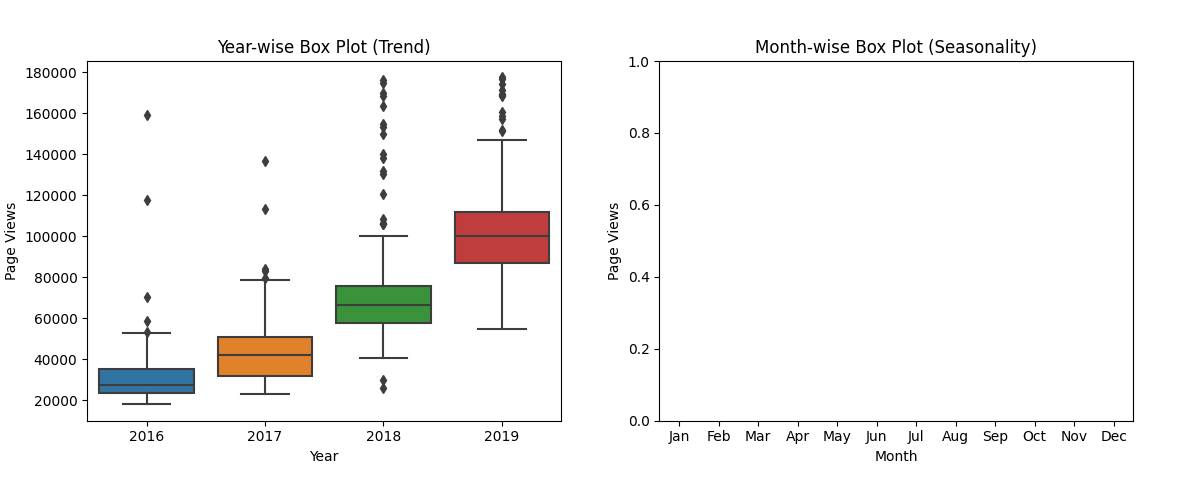
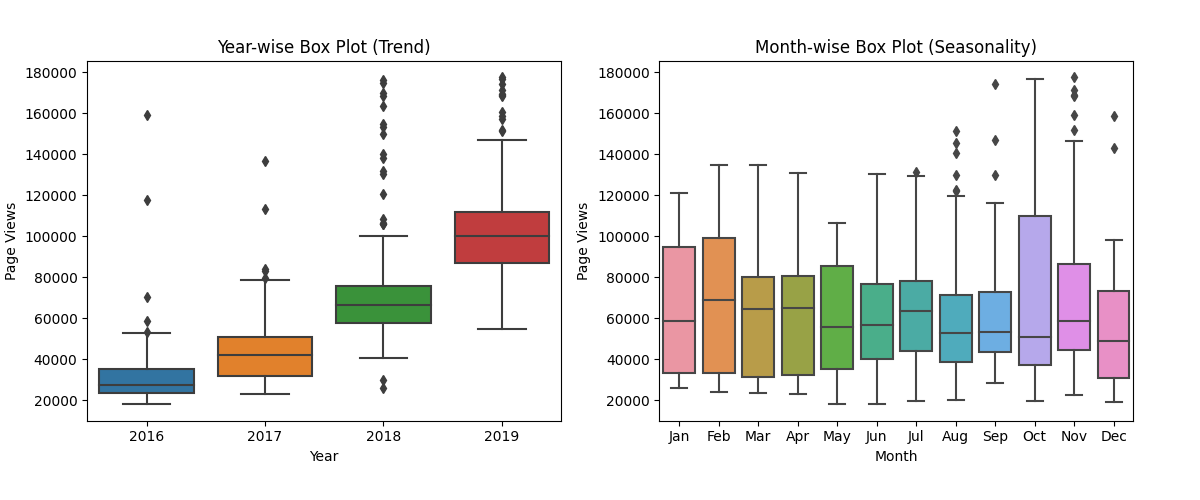
drawing box plot 2 completed

diff --git a/boilerplate-page-view-time-series-visualizer/time_series_visualizer.py b/boilerplate-page-view-time-series-visualizer/time_series_visualizer.py
@@ -6,14 +6,16 @@ import seaborn as sns
 from pandas.plotting import register_matplotlib_converters
 register_matplotlib_converters()
 
-# Import data (Make sure to parse dates. Consider setting index column to 'date'.)
-df = pd.read_csv('fcc-forum-pageviews.csv', index_col='date')
 
+# Import data (Make sure to parse dates. Consider setting index column to 'date'.)
+df = pd.read_csv('fcc-forum-pageviews.csv')
+df = df.set_index('date')
 # Clean data
 df = df[
-        (df['value'] >= (df['value'].quantile(0.025))) & 
-        (df['value'] <= (df['value'].quantile(0.975)))   
-       ]
+    (df['value'] >= (df['value'].quantile(0.025))) & 
+    (df['value'] <= (df['value'].quantile(0.975)))   
+    ]
+df.index = pd.to_datetime(df.index)
 
 def draw_line_plot():
     # Draw line plot
@@ -58,23 +60,20 @@ def draw_bar_plot():
 
 
 def draw_box_plot():
-    # Prepare data for box plots (this part is done!)
+
     df_box = df.copy()
     df_box.reset_index(inplace=True)
-    df_box['date'] = pd.to_datetime(df_box['date'])
-    df_box['year'] = [d.strftime('%Y') for d in df_box.date]
-    df_box['month'] = [d.strftime('%m') for d in df_box.date]
-    # print(df_box['month'])
+    df_box['year'] = [d.year for d in df_box.date]
+    df_box['month'] = [d.strftime('%b') for d in df_box.date]
 
     # Draw box plots (using Seaborn)
     clist_new = ["Jan","Feb", "Mar", "Apr", "May","Jun","Jul","Aug", "Sep","Oct","Nov","Dec"]
-    
-     # Draw box plot
     fig,ax = plt.subplots(nrows=1,ncols=2)
     fig.set_size_inches(12, 5)
     fig.tight_layout(pad=4)
+    
     sns.boxplot(x = df_box['year'], y = df_box['value'], ax = ax[0]).set(xlabel='Year', ylabel='Page Views')
-    sns.boxplot(x = df_box['month'], y = df_box['value'],order=["Jan","Feb", "Mar", "Apr", "May","Jun","Jul","Aug", "Sep","Oct","Nov","Dec"], ax = ax[1]).set(xlabel='Month', ylabel='Page Views')
+    sns.boxplot(x = df_box['month'], y = df_box['value'], order = clist_new, ax = ax[1]).set(xlabel='Month', ylabel='Page Views')
 
     ax[0].set_title('Year-wise Box Plot (Trend)')
     ax[1].set_title('Month-wise Box Plot (Seasonality)')
